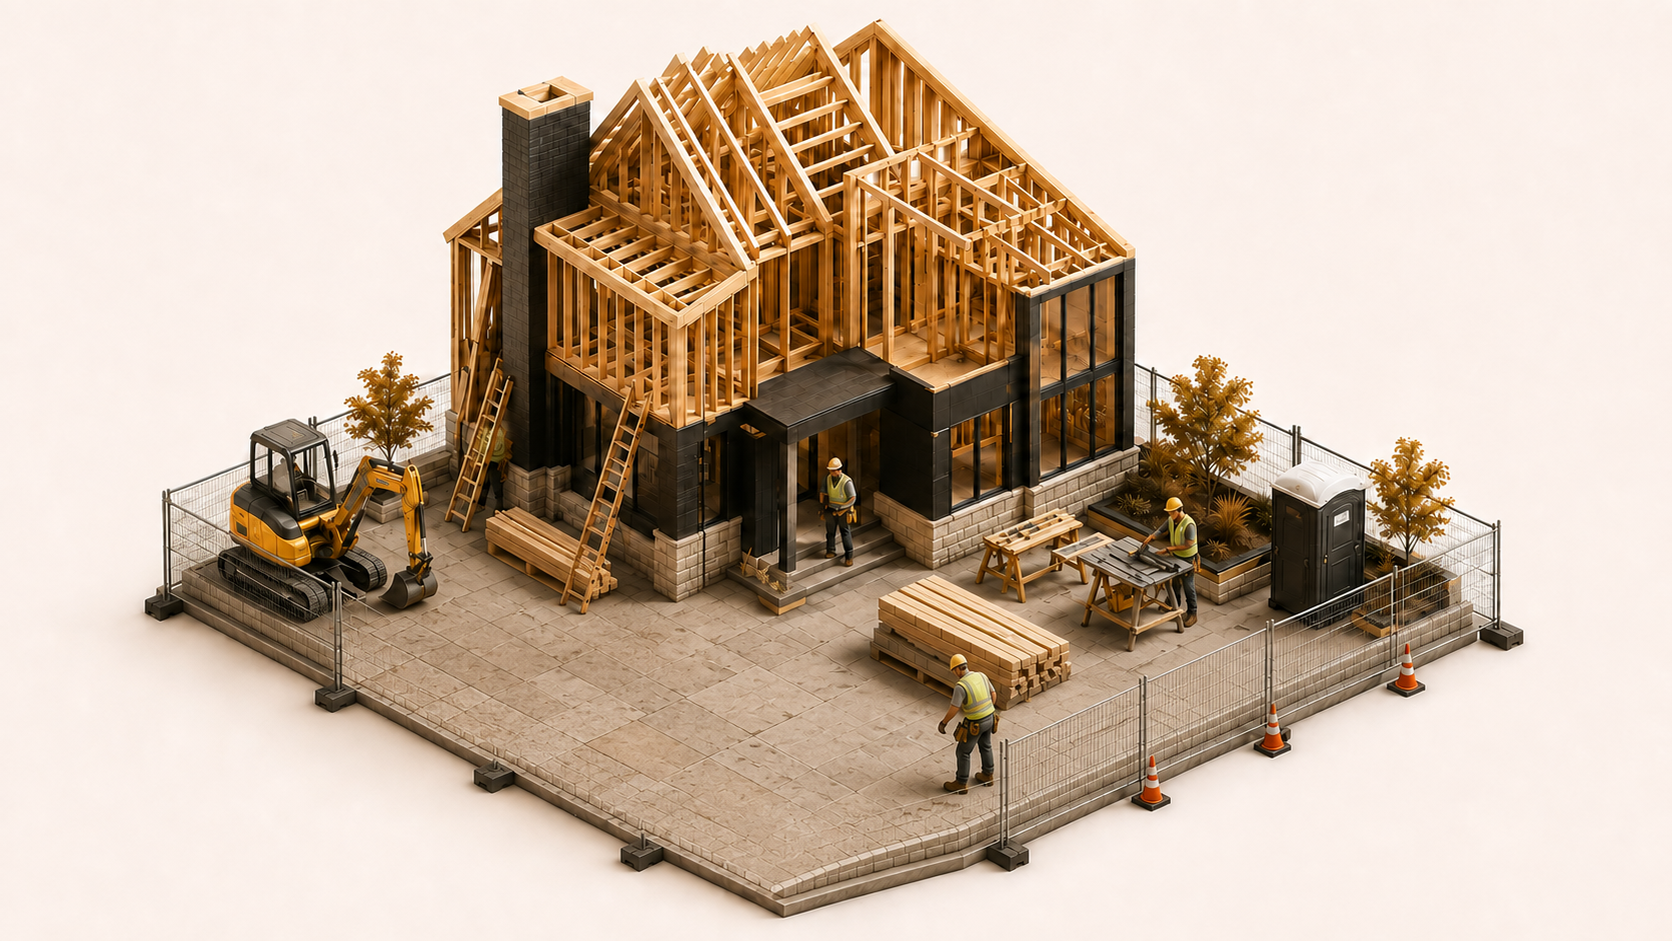
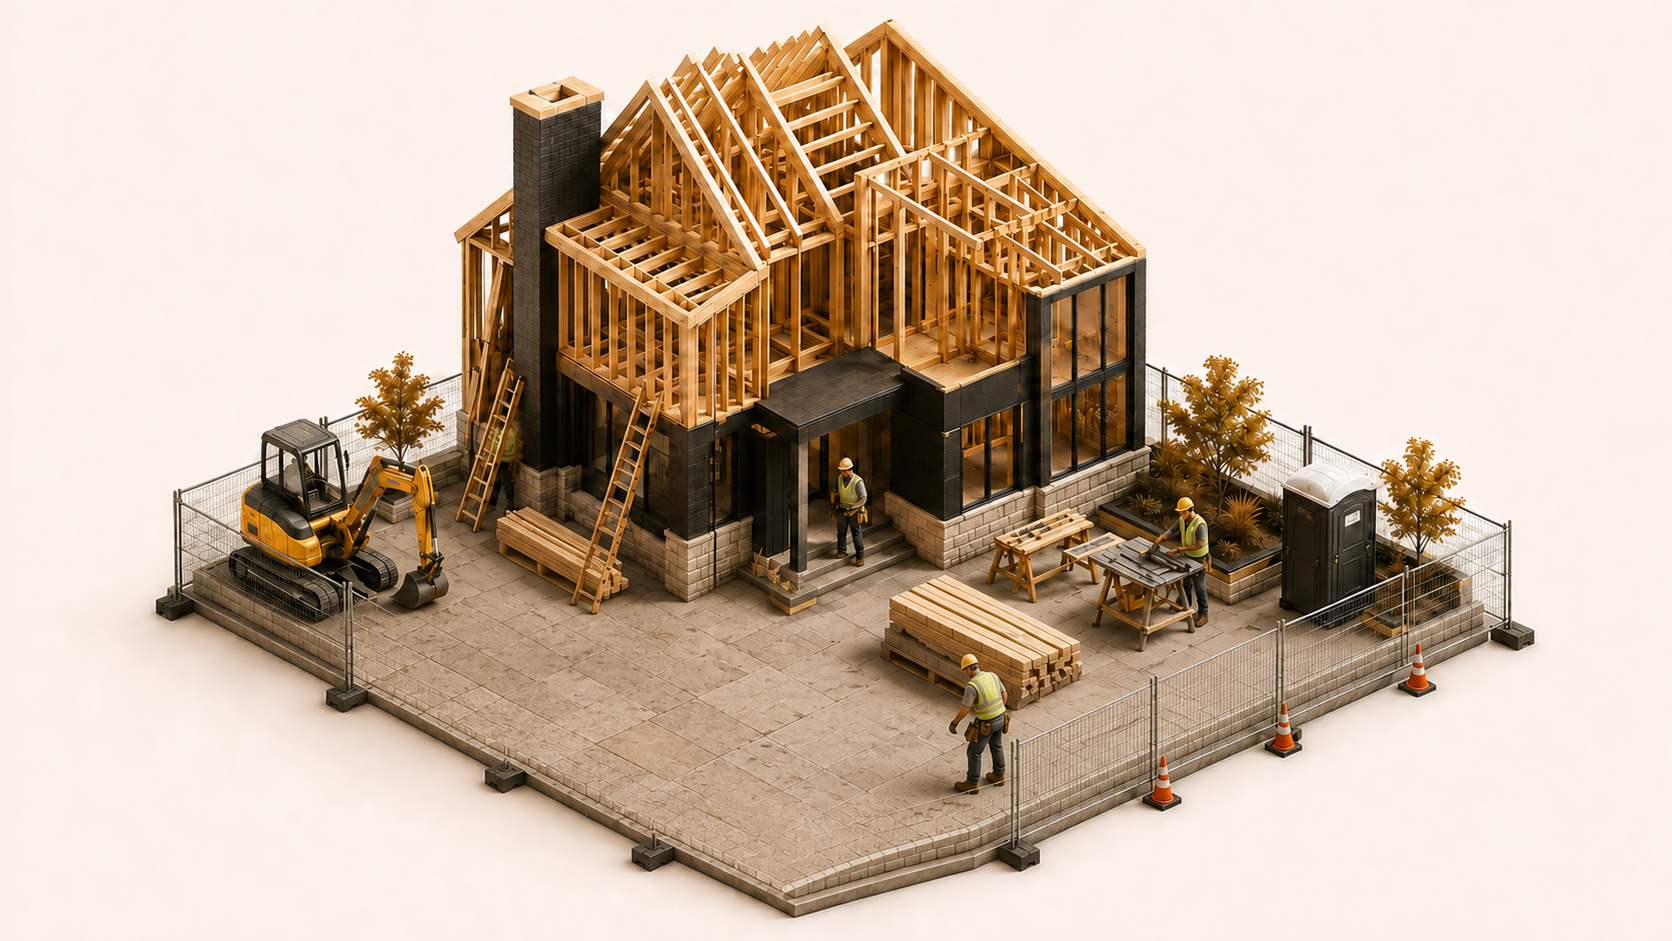
fix(contractors): restore visible handoff motion and align Tools framing
Root causes confirmed via real-browser repro on commit 5b94b77 build:

Animation:
- Fallback crossfade could bypass choreography when handoff was active
- motionPlaying excluded clean-transition phase (overlay hidden during first crossfade)
- Effect deps (reduceMotion/transitionMs) could cancel in-flight sequences
- Object descend animation was too subtle (24px) to read as motion

Fixes:
- Block fallback when handoff recipe exists or sequence is busy
- Include clean-transition in motionPlaying; add 180ms clean-bg hold
- Stabilize handoff hook with refs; return isHandoffBusy guard
- Increase full-canvas object descend animation (56px + scale)

Crop:
- Tools composite-proof state was +23px tighter vs General (fence left 417 vs 440)
- Shift all Tools assets +11px to lock fence-left with General (440)
- Sync state PNG from shifted composite-proof for seamless handoff

Verified with screen recording: all 4 tabs, visible Tools/Builder choreography.

Changed region(s): [[0.0622, 0.0308, 0.933, 0.9862]]

diff --git a/src/hooks/useCoverageHandoffSequence.ts b/src/hooks/useCoverageHandoffSequence.ts
@@ -37,18 +37,17 @@ export function useCoverageHandoffSequence({
   const [choreographyActive, setChoreographyActive] = useState(false);
   const [motionKey, setMotionKey] = useState(0);
   const sequenceGenRef = useRef(0);
+  const reduceMotionRef = useRef(reduceMotion);
+  const transitionMsRef = useRef(transitionMs);
+
+  reduceMotionRef.current = reduceMotion;
+  transitionMsRef.current = transitionMs;
 
   const usesHandoff =
     enabled &&
     Boolean(recipe?.cleanBgSrc) &&
     recipe?.handoffAtMs != null &&
     recipe.handoffAtMs >= 0;
-
-  useEffect(() => {
-    sequenceGenRef.current += 1;
-    setPhase("idle");
-    setChoreographyActive(false);
-  }, [activeCoverageId]);
 
   useEffect(() => {
     if (!usesHandoff || !recipe?.cleanBgSrc) {
@@ -61,7 +60,7 @@ export function useCoverageHandoffSequence({
     const activeRecipe = recipe;
     const cleanBgSrc = activeRecipe.cleanBgSrc as string;
     const handoffAtMs = activeRecipe.handoffAtMs ?? 0;
-    const handoffDurationMs = activeRecipe.handoffDurationMs ?? transitionMs;
+    const handoffDurationMs = activeRecipe.handoffDurationMs ?? transitionMsRef.current;
 
     const wait = (ms: number) =>
       new Promise<void>((resolve) => {
@@ -74,6 +73,9 @@ export function useCoverageHandoffSequence({
           ?.map((layer) => layer.src)
           .filter((src): src is string => Boolean(src)) ?? [];
 
+      setPhase("idle");
+      setChoreographyActive(false);
+
       try {
         await onPreload(cleanBgSrc);
         await Promise.all([...objectSrcs.map(onPreload), onPreload(finalSrc)]);
@@ -83,8 +85,11 @@ export function useCoverageHandoffSequence({
 
       if (gen !== sequenceGenRef.current) return;
 
-      if (reduceMotion) {
-        await crossfadeTo(finalSrc, transitionMs);
+      const prefersReducedMotion = reduceMotionRef.current;
+      const crossfadeMs = transitionMsRef.current;
+
+      if (prefersReducedMotion) {
+        await crossfadeTo(finalSrc, crossfadeMs);
         if (gen !== sequenceGenRef.current) return;
         setPhase("settled");
         setChoreographyActive(false);
@@ -93,7 +98,11 @@ export function useCoverageHandoffSequence({
 
       setPhase("clean-transition");
       setChoreographyActive(false);
-      await crossfadeTo(cleanBgSrc, transitionMs);
+      await crossfadeTo(cleanBgSrc, crossfadeMs);
+      if (gen !== sequenceGenRef.current) return;
+
+      // Brief hold on clean background so the scene change reads before objects enter.
+      await wait(180);
       if (gen !== sequenceGenRef.current) return;
 
       setPhase("choreography");
@@ -115,26 +124,23 @@ export function useCoverageHandoffSequence({
     return () => {
       sequenceGenRef.current += 1;
     };
-  }, [
-    activeCoverageId,
-    crossfadeTo,
-    finalSrc,
-    onPreload,
-    recipe,
-    reduceMotion,
-    transitionMs,
-    usesHandoff,
-  ]);
+  }, [activeCoverageId, crossfadeTo, finalSrc, onPreload, recipe, usesHandoff]);
 
   const hasPlaceholderLayers = Boolean(
     recipe?.objectLayers?.some((layer) => layer.placeholder),
   );
+
+  const isHandoffBusy =
+    usesHandoff &&
+    phase !== "idle" &&
+    phase !== "settled";
 
   return {
     phase,
     choreographyActive,
     motionKey,
     usesHandoff,
+    isHandoffBusy,
     alignmentConfidence: recipe?.handoffAlignmentConfidence ?? "low",
     assetMode: usesHandoff && hasPlaceholderLayers ? ("placeholder" as const) : ("final" as const),
   };

diff --git a/src/components/pilot/coverage-explorer/CoverageStateImageStage.tsx b/src/components/pilot/coverage-explorer/CoverageStateImageStage.tsx
@@ -170,7 +170,9 @@ export default function CoverageStateImageStage({
   }, []);
 
   useEffect(() => {
-    if (handoff.usesHandoff) return;
+    // Never bypass choreography when a handoff recipe exists or a sequence is running.
+    if (handoff.usesHandoff || handoff.isHandoffBusy) return;
+    if (motionRecipes?.[activeCoverageId]?.cleanBgSrc) return;
 
     const targetSrc = finalSrc;
     if (targetSrc === visibleSrcRef.current) return;
@@ -211,7 +213,15 @@ export default function CoverageStateImageStage({
     }
 
     void loadAndTransition();
-  }, [activeCoverageId, fallbackSrc, finalSrc, handoff.usesHandoff, transitionMs]);
+  }, [
+    activeCoverageId,
+    fallbackSrc,
+    finalSrc,
+    handoff.isHandoffBusy,
+    handoff.usesHandoff,
+    motionRecipes,
+    transitionMs,
+  ]);
 
   const handleError = (failedSrc: string) => {
     if (failedSrc === fallbackSrc) return;
@@ -234,7 +244,8 @@ export default function CoverageStateImageStage({
   const motionPlaying =
     handoff.choreographyActive ||
     handoff.phase === "handoff" ||
-    handoff.phase === "choreography";
+    handoff.phase === "choreography" ||
+    handoff.phase === "clean-transition";
 
   return (
     <div

diff --git a/src/styles/pilot.css b/src/styles/pilot.css
@@ -2722,7 +2722,7 @@
 .pilot-ce-motion-object-layer {
   position: absolute;
   opacity: 0;
-  transform: translate3d(0, -18px, 0) scale(0.96);
+  transform: translate3d(0, -48px, 0) scale(0.92);
   animation-timing-function: cubic-bezier(0.22, 1, 0.36, 1);
   animation-fill-mode: forwards;
 }
@@ -2732,7 +2732,7 @@
   inset: 0;
   width: 100%;
   height: 100%;
-  transform: translate3d(0, -24px, 0);
+  transform: translate3d(0, -56px, 0) scale(0.94);
 }
 
 .pilot-ce-motion-object-layer--full-canvas.pilot-ce-motion-object-layer--hold {
@@ -2855,14 +2855,17 @@
 @keyframes ce-motion-object-descend-hold-full {
   0% {
     opacity: 0;
-    transform: translate3d(0, -24px, 0);
+    transform: translate3d(0, -56px, 0) scale(0.94);
   }
-  28% {
+  22% {
+    opacity: 0.15;
+  }
+  42% {
     opacity: 1;
   }
   100% {
     opacity: 1;
-    transform: translate3d(0, 0, 0);
+    transform: translate3d(0, 0, 0) scale(1);
   }
 }
 
